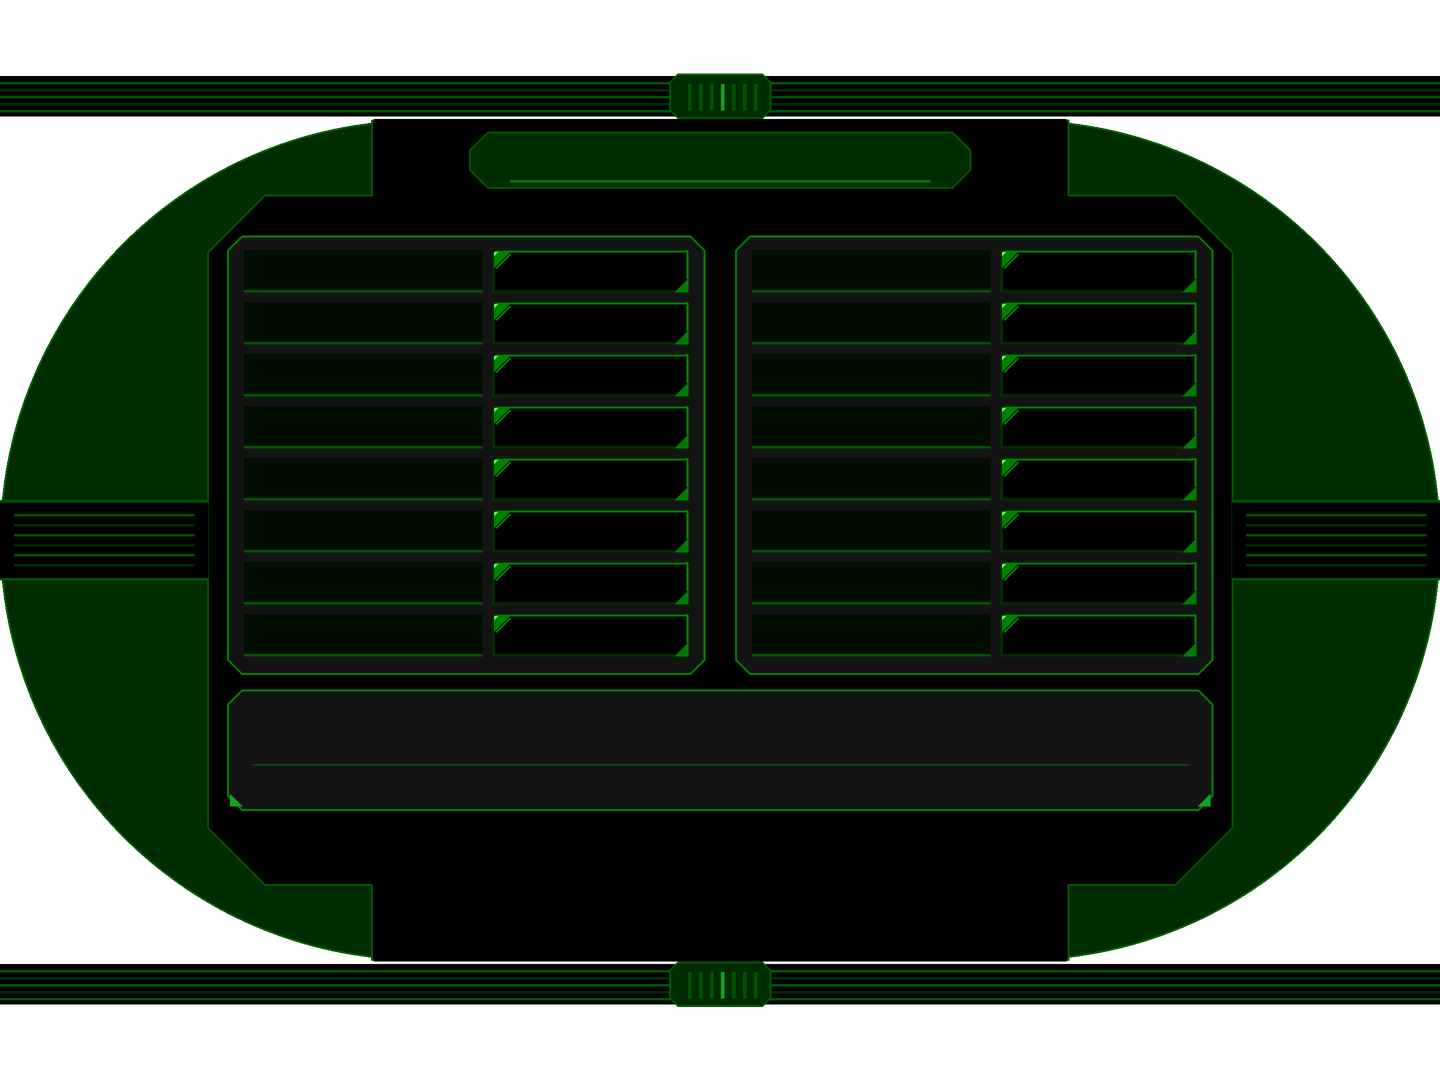
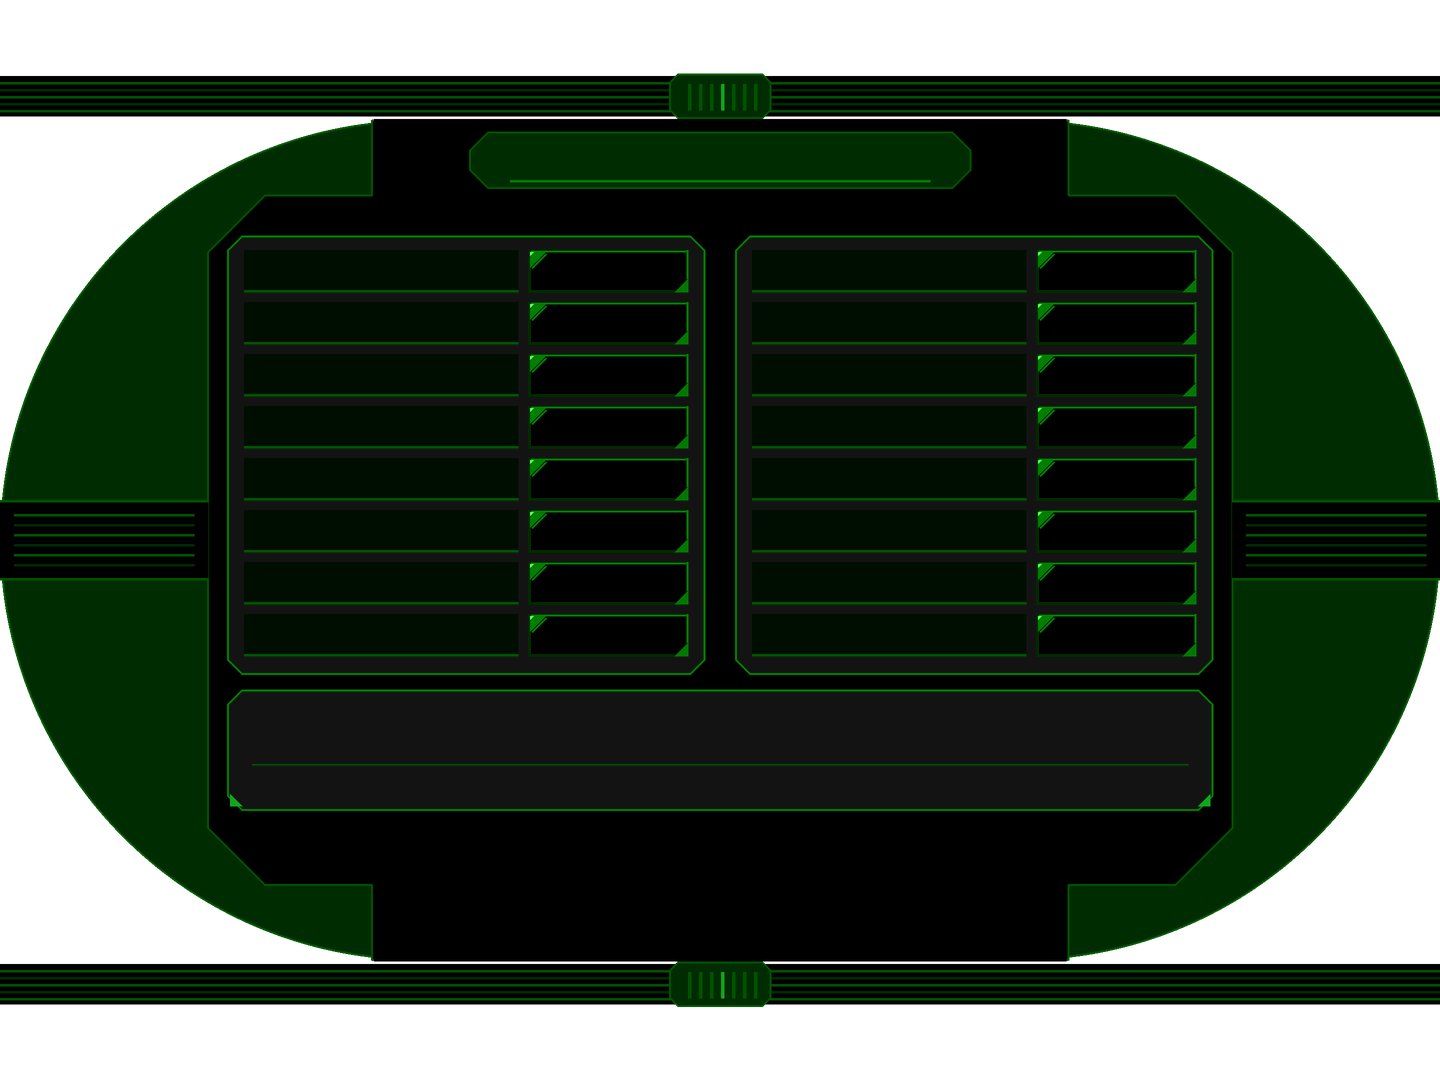
Options UI: widen label column, restore full labels
Narrow the category-page value button from 196 to 160 px (art and
layout) so the label well grows to about 250 px, and restore the full
names the previous commit had shortened. Neutral Attack Orders is still
1 px too wide and stays Attack Neutrals. The 160x42 value skins now
match the pre-lobby server slots they are also drawn in. The keys page
keeps its 196 px value column.

Changed region(s): [[0.6875, 0.2139, 0.75, 0.6111], [0.3438, 0.2139, 0.375, 0.4889], [0.3438, 0.5194, 0.375, 0.6111]]

diff --git a/src/patches/weapon_convergence_hooks.cpp b/src/patches/weapon_convergence_hooks.cpp
@@ -504,8 +504,8 @@ namespace BZROpenShim
         // This is the convergence mechanism for both public features. The only
         // intended distinction is the provider of ConvergenceRangeSample:
         //
-        //   Gun Convergence -> explicit GameObject target range
-        //   Aim Convergence -> smart-reticle object/ground range
+        //   Weapon Convergence  -> explicit GameObject target range
+        //   Reticle Convergence -> smart-reticle object/ground range
         //
         // Stock class-specific UpdateWeaponAim runs before this function. The
         // post-pass then reproduces only Walker's proven convergence stage.

diff --git a/src/patches/dx11_colorspace_diagnostic.cpp b/src/patches/dx11_colorspace_diagnostic.cpp
@@ -2256,7 +2256,7 @@ namespace BZROpenShim
         g_TessStatisticsEnabled = tessLength > 0 && tessLength < sizeof(tessTest) &&
             BoolToken::IsTruthy(tessTest, tessLength);
         const bool terrainProbeRequested = TerrainProbeRequested() || g_TessStatisticsEnabled;
-        // Keyed on HD terrain alone, not Micro Detail: the preset
+        // Keyed on HD terrain alone, not Terrain Micro Detail: the preset
         // migration that turns relief on runs later in startup, and the
         // options page can turn it on mid-session. Without the hook the
         // relief test is declined and the painted terrain falls back to

diff --git a/src/patches/bzr_options_ui.cpp b/src/patches/bzr_options_ui.cpp
@@ -2985,7 +2985,7 @@ namespace BZROpenShim
         constexpr float kShimRowPitch = 52.0f;
         constexpr float kShimRowH = 42.0f;
         constexpr float kShimRowPad = 16.0f;
-        constexpr float kShimValueW = 196.0f;
+        constexpr float kShimValueW = 160.0f;
         constexpr Shell::Rect kShimCategoryInfo = { 228.0f, 690.0f, 984.0f, 120.0f };
 
         static Shell::Rect ShimHubTileRect(size_t index)

diff --git a/resources/ui/custom_widgets/mkscreens.py b/resources/ui/custom_widgets/mkscreens.py
@@ -255,7 +255,7 @@ CATEGORY_LAYOUT = {
     'title': (470, 132, 500, 56),
     'columns': [(228, 236, 476, 438), (736, 236, 476, 438)],
     'row_top': 14, 'row_pitch': 52, 'row_h': 42, 'rows': 8,
-    'pad': 16, 'value_w': 196,
+    'pad': 16, 'value_w': 160,
     'info': (228, 690, 984, 120),
 }
 # The key-binding editor on the stock Input screen (painted mode). Toolbar

diff --git a/Docs/terrain-hd-tiles.md b/Docs/terrain-hd-tiles.md
@@ -4,7 +4,7 @@
 replacement. Version 2 packs also support independent normal, specular and
 emissive tiles. A texture pack is required; the option does not create new artwork.
 Restart the game after changing the tile option. It is off by default and works
-with `Micro Detail`. Activation also requires the **effective DX11
+with `Terrain Micro Detail`. Activation also requires the **effective DX11
 Enhanced profile**. Redux/Retro retain the ordinary atlas without allocating
 HD arrays. Leaving Enhanced during a mission restores the atlas material and
 native streams; returning to Enhanced rearms native discovery.
@@ -69,7 +69,7 @@ material is changed. A mismatched source channel, unsupported shader contract,
 missing tile, or conflicting surface-normal manifest declines the whole pack.
 V2 requires native terrain and cannot be combined with four-material paint.
 An optional per-material `microReliefScale` (finite **0..4**, default **1**)
-scales Micro Detail's procedural displacement after that HD pack has
+scales Terrain Micro Detail's procedural displacement after that HD pack has
 successfully installed. It does not enable micro detail or derive geometry
 heights from normal maps. The shader and culling bounds use the same scaled
 amplitude, capped at the existing one-meter envelope; `0` flattens relief.

diff --git a/Docs/terrain-paint.md b/Docs/terrain-paint.md
@@ -7,7 +7,7 @@ positions plus cluster translation. Camera position, native tile orientation
 and atlas rectangles do not determine the new diffuse coordinates.
 
 Enable the existing **HD Terrain Tiles** option, select the generated manifest
-through `[Terrain] TerrainHdManifest`, and restart. **Micro Detail**
+through `[Terrain] TerrainHdManifest`, and restart. **Terrain Micro Detail**
 works alongside it. The original tile-array mode remains supported.
 There are no new INI keys. Stock heights, collision, indices, AI and gameplay
 terrain files are unchanged. Native packed UVs are still independently audited

diff --git a/Docs/control-smoothing.md b/Docs/control-smoothing.md
@@ -65,7 +65,7 @@ instead of ramping, and joystick axes are unfiltered too.
 ## Configuration
 
 `[General] DisableControlSmoothing` in `openshim.ini`, boolean, default OFF,
-restart required. Exposed as **Raw Controls** under OpenShim Options →
+restart required. Exposed as **Unsmoothed Controls** under OpenShim Options →
 Controls. Env aliases: `OPENSHIM_DISABLE_CONTROL_SMOOTHING`,
 `BZR_DISABLE_CONTROL_SMOOTHING`.
 
